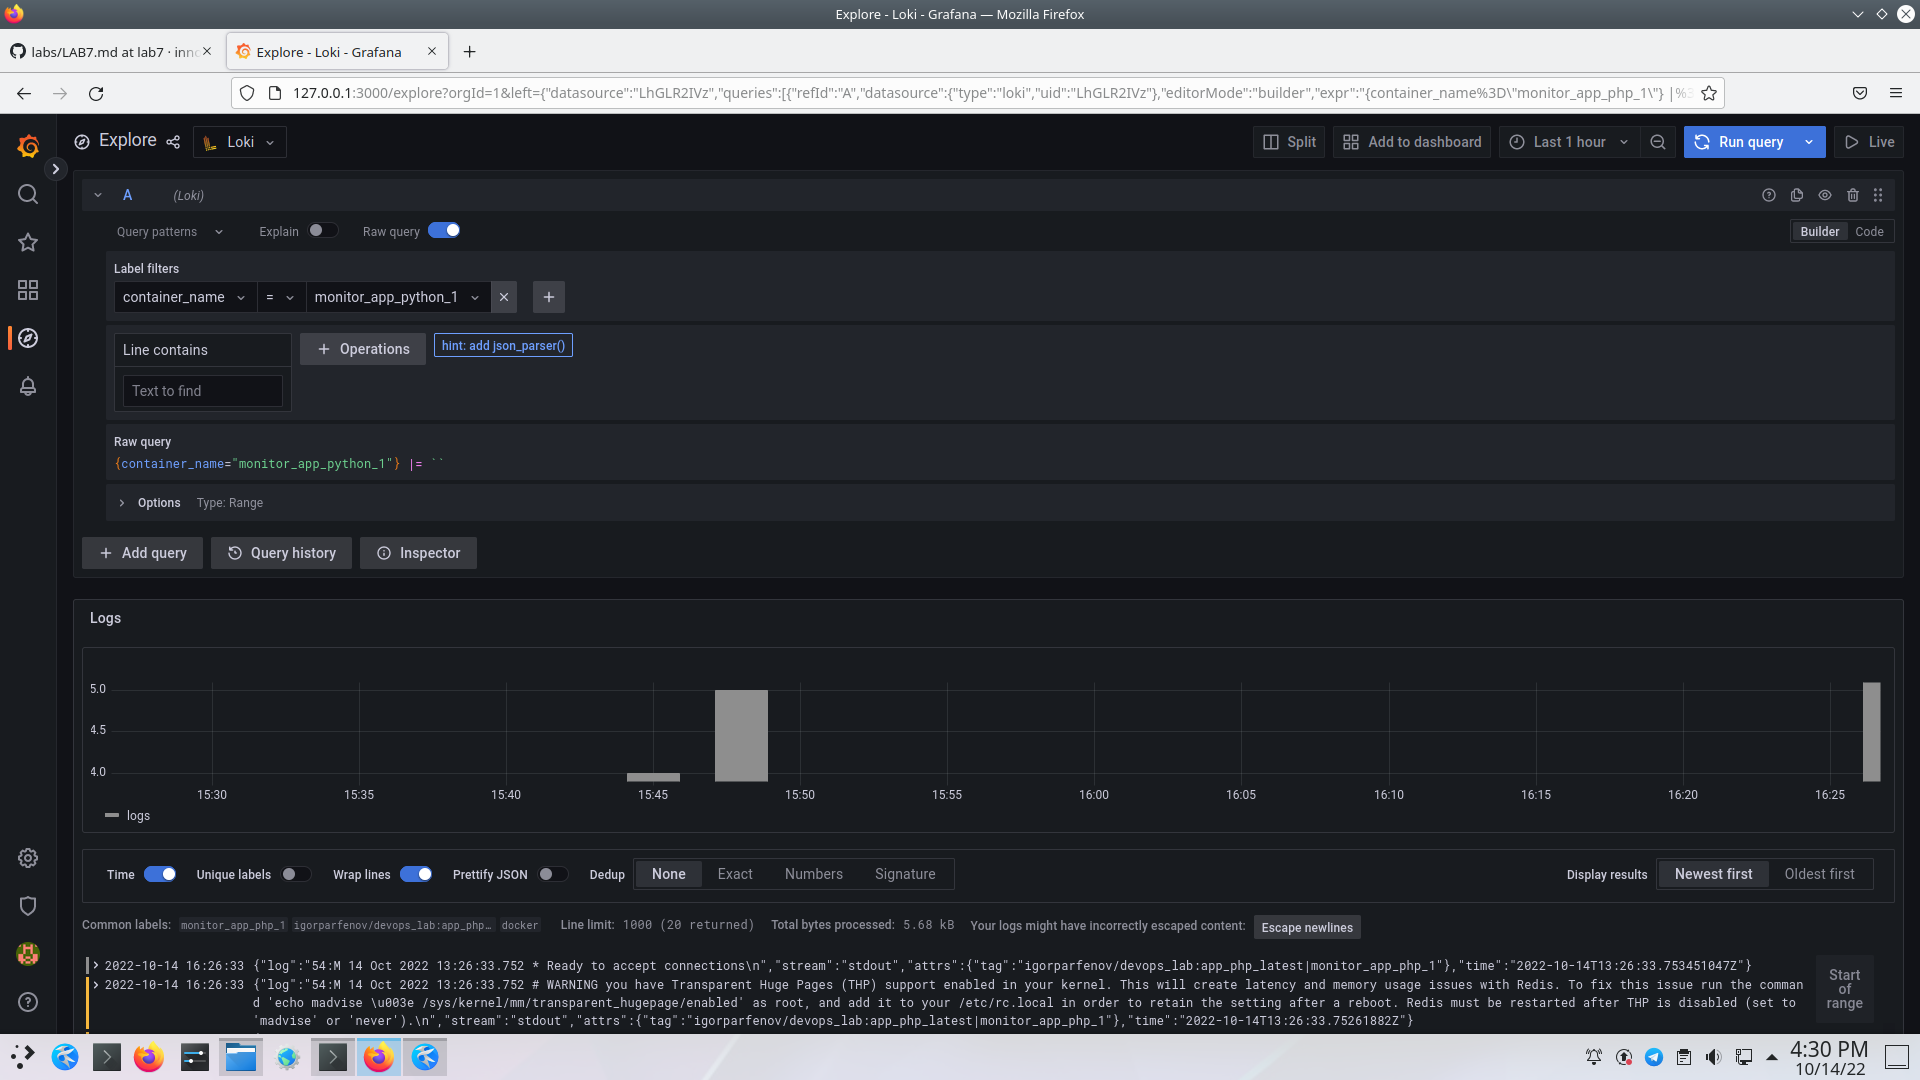
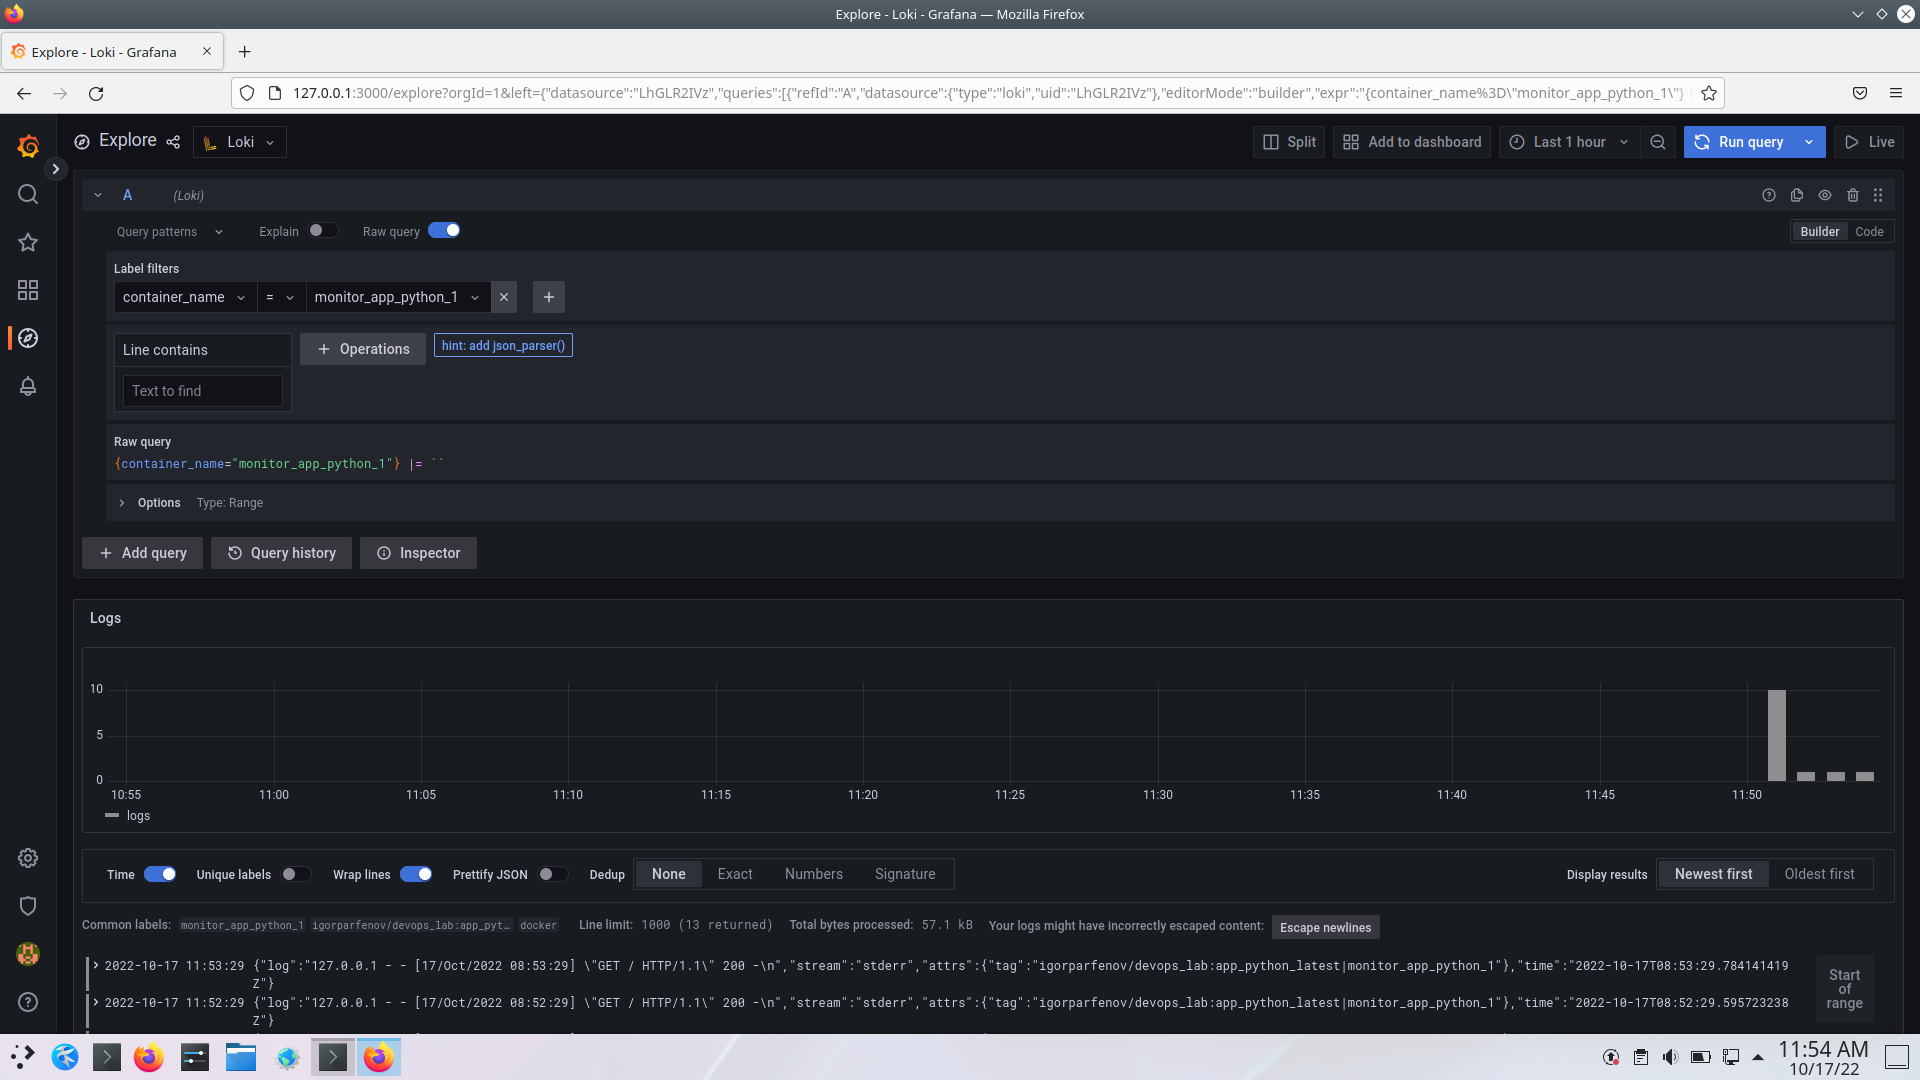
Lab 7

diff --git a/monitor/LOGGING.md b/monitor/LOGGING.md
@@ -2,12 +2,16 @@
 
 ## Description
 
-For logging `Promtail`, `Loki` and `Grafana` were used. Configuration for `Promatail` is in `promtail.yml` file. To start the stack, run
+For logging `Promtail`, `Loki` and `Grafana` were used. Configuration for `Promatail`
+is in `promtail.yml` file. To start the stack, run
 
 `sudo docker-compose up`
 
-After it web interface is available on `127.0.0.1:3000`. Logs from both `app_python` and `app_php` can be gotten in appropriate tabs.
+After it web interface is available on `127.0.0.1:3000`. Logs from both `app_python`
+and `app_php` can be gotten in appropriate tabs.
 
 ## Screenshot
 
-![Screenshot](./screenshots/1.png)
+![app_python](https://github.com/ParfenovIgor/labs/tree/lab7/monitor/screenshots/1.png)
+
+![app_php](https://github.com/ParfenovIgor/labs/tree/lab7/monitor/screenshots/2.png)
